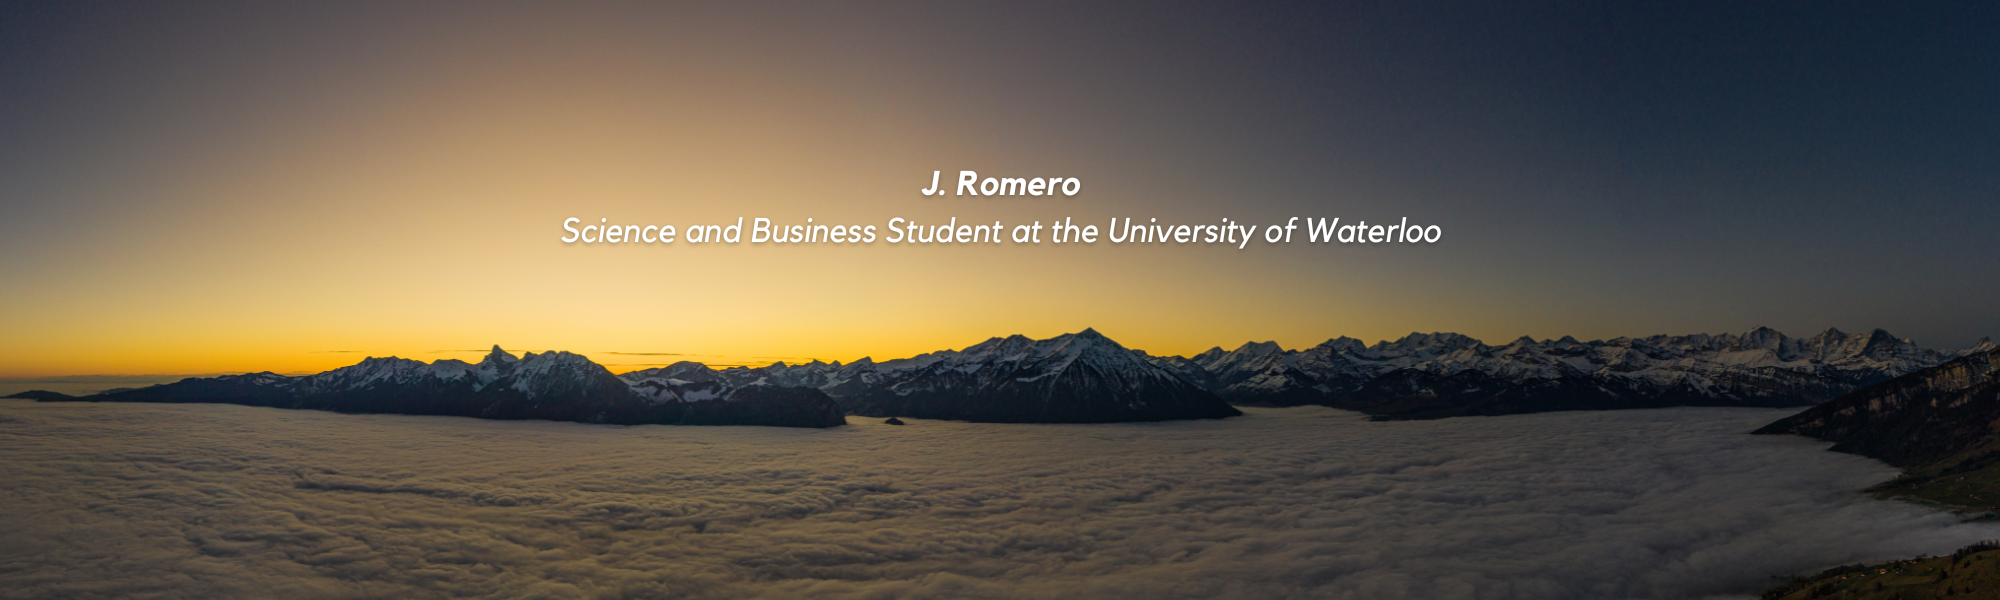
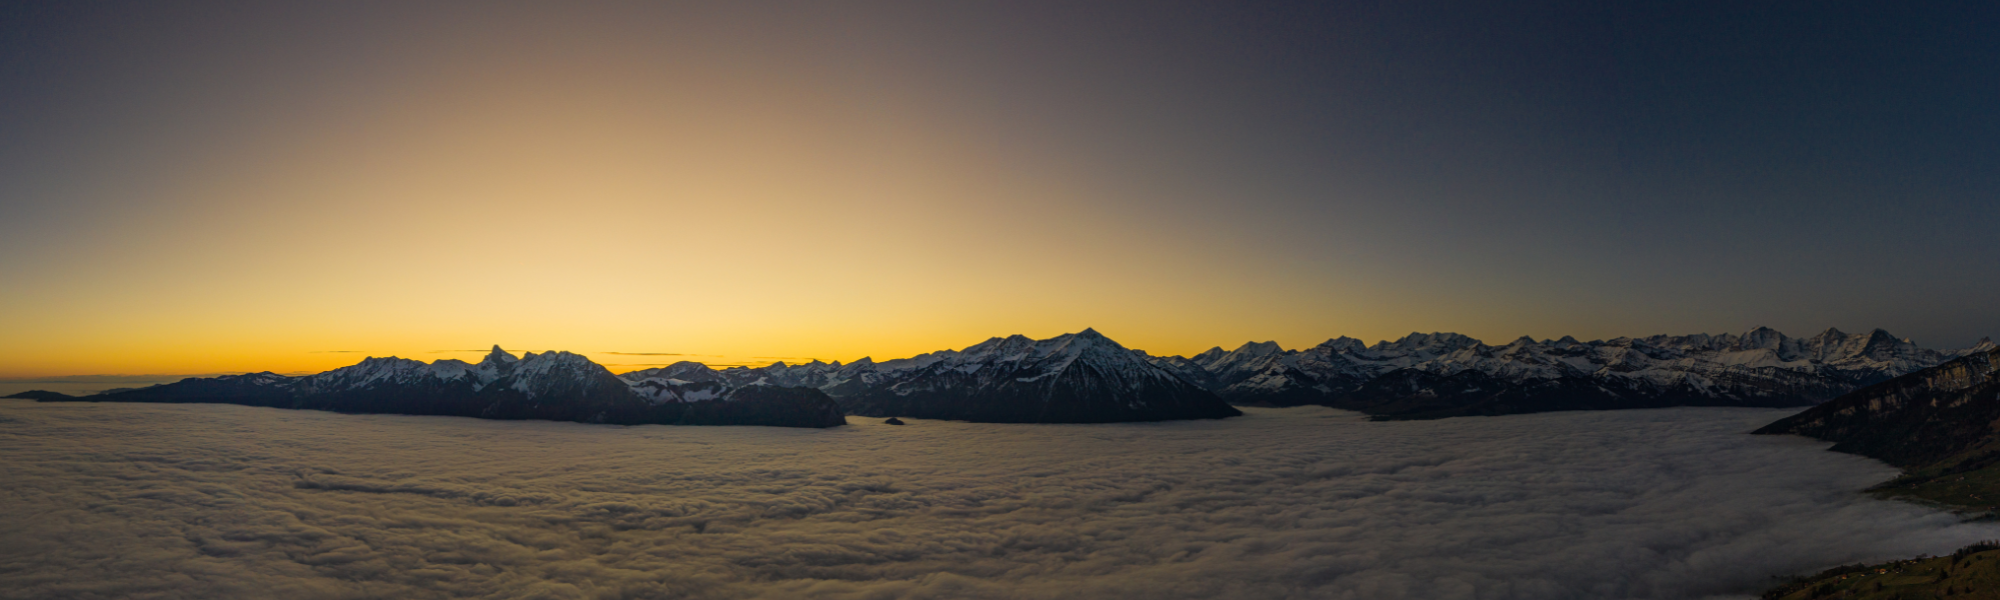
Small updates to config

Changed region(s): [[0.279, 0.36, 0.713, 0.42], [0.465, 0.27, 0.558, 0.33]]

diff --git a/index.md b/index.md
@@ -9,11 +9,13 @@ article_header:
 
 <div class="article__header space-below-header" style="text-align: center; font-style: italic;">
 
-My name is J. Romero - I love to solve problems by impimenting great ideas and technologies in a creative way that just makes sense. 
 
-Have a look at my past and current project or take a stroll through a history of how I got where I am, and where I want to go.
+Howdy, I'm J. Romero. I'm passionate about solving problems by implementing great ideas and technologies, in a way that's both creative and practical. 
+I also have a passion for people, and how effective teams become more than the sum of their parts. 
 
-If you would like to connect with me, about anything at all, use the links below to reach me.
+While you're here, explore my past and current projects to see what I've been working on; or take stroll through my history to see how I got here and where I'm headed.
+
+If you would like to connect with me about anything at all, please use the links below to reach me. 
 
 
 </div>

diff --git a/about.md b/about.md
@@ -7,7 +7,7 @@ key: page-About
 
 ## About J. Romero
 
-![Profile image cannot be displayed.](assets/images/profile_photo.png "@UW Campus")
+![Profile image cannot be displayed.](/assets/images/profile_photo.png "@UW Campus")
 
 
 *Section coming soon!*
